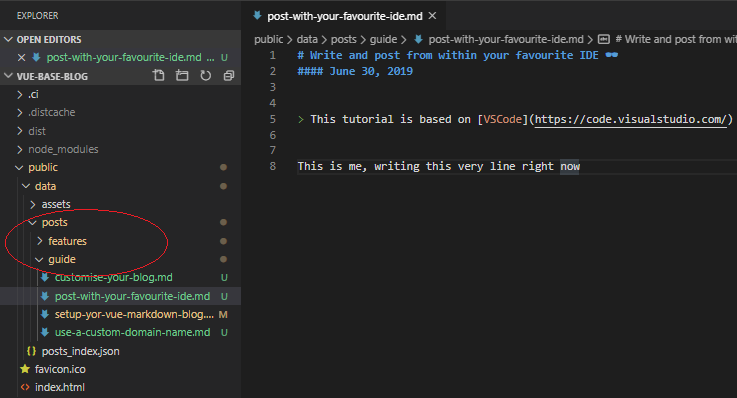
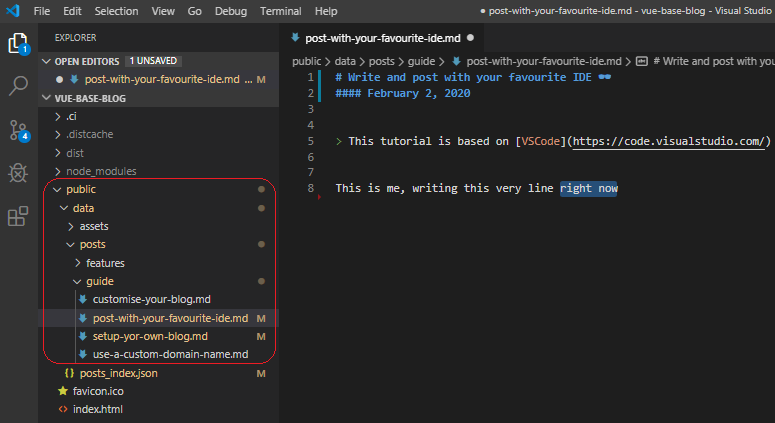
fix: img refs

diff --git a/public/data/posts/guide/setup-yor-own-blog.md b/public/data/posts/guide/setup-yor-own-blog.md
@@ -15,7 +15,7 @@ Login into your GitHub account and start a new repo.
 
 - Use `vue-base-blog` [as a template](https://github.com/yeikiu/vue-base-blog/generate)
 
-![Public Dir Structure](../../assets/step1-github.png)
+![Public Dir Structure](data/assets/step1-github.png)
 
 
 ## 2.- Configure your `.env` file
@@ -51,7 +51,7 @@ Your new blog should be available soon under https://<YOUR_GITHUB_USER>.github.i
 
 ## 5.- Next Steps
 
-- [Write and post from within your favourite IDE 🕶](/#/guide/post-with-your-favourite-ide)
+- [Write and post with your favourite IDE 🕶](/#/guide/post-with-your-favourite-ide)
 
 - Check the [features](/#/features) list to see all the cool stuff you can do in your posts!
 

diff --git a/public/data/posts/guide/post-with-your-favourite-ide.md b/public/data/posts/guide/post-with-your-favourite-ide.md
@@ -1,4 +1,4 @@
-# Write and post from within your favourite IDE 🕶
+# Write and post with your favourite IDE 🕶
 #### June 30, 2019
 
 
@@ -7,7 +7,7 @@
 
 This is me, writing this very line right now
 
-![Public Dir Structure](../../assets/public-structure.png)
+![Public Dir Structure](data/assets/public-structure.png)
 
 There is a few interesting things to notice in the image, take a second look. Basically every time you want to create a new post
 you will need to create a `new-post-file.md` file following a few simple rules:

diff --git a/README.md b/README.md
@@ -38,7 +38,7 @@ Read the [full guide](https://yeikiu.github.io/vue-base-blog/#/guide/setup-yor-o
 
 ### Next Steps
 
-- [Write and post from within your favourite IDE 🕶](/#/guide/post-with-your-favourite-ide)
+- [Write and post with your favourite IDE 🕶](/#/guide/post-with-your-favourite-ide)
 
 - Check the [features](/#/features) list to see all the cool stuff you can do in your posts!
 
